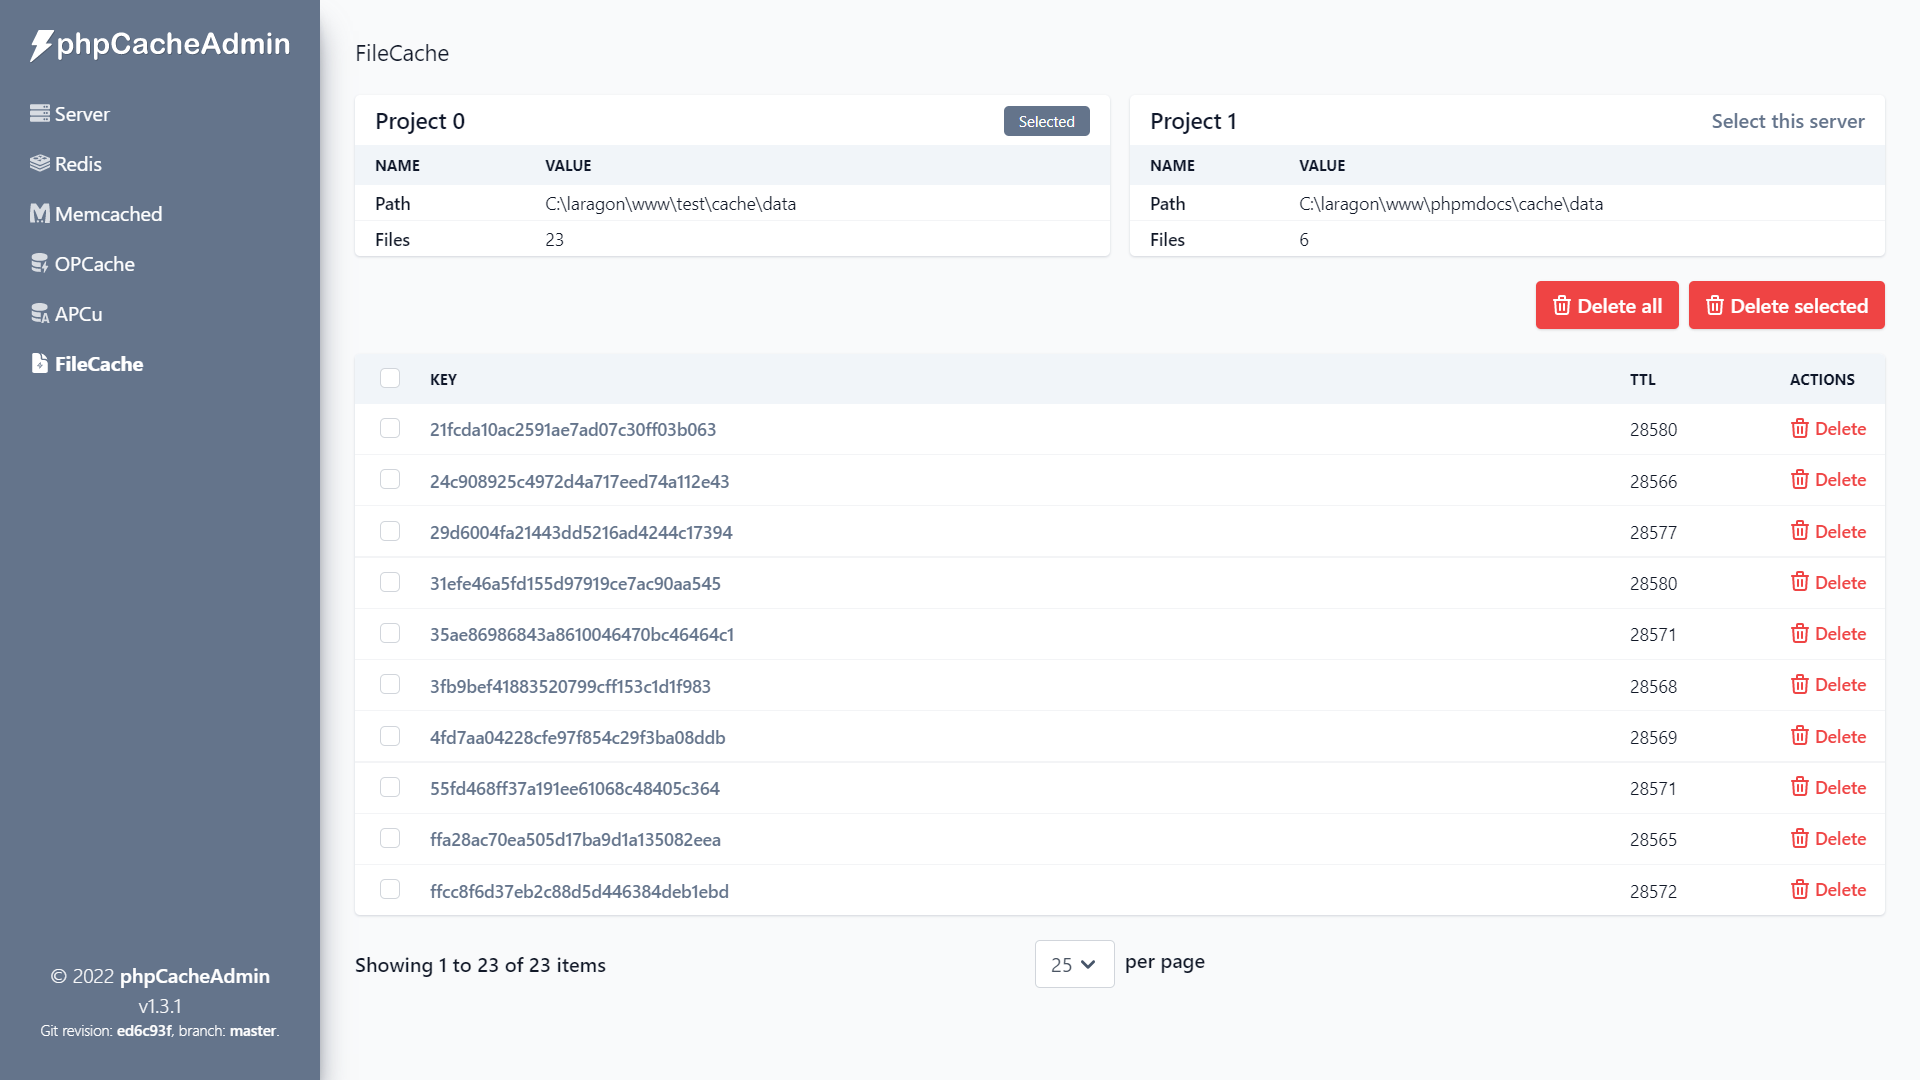
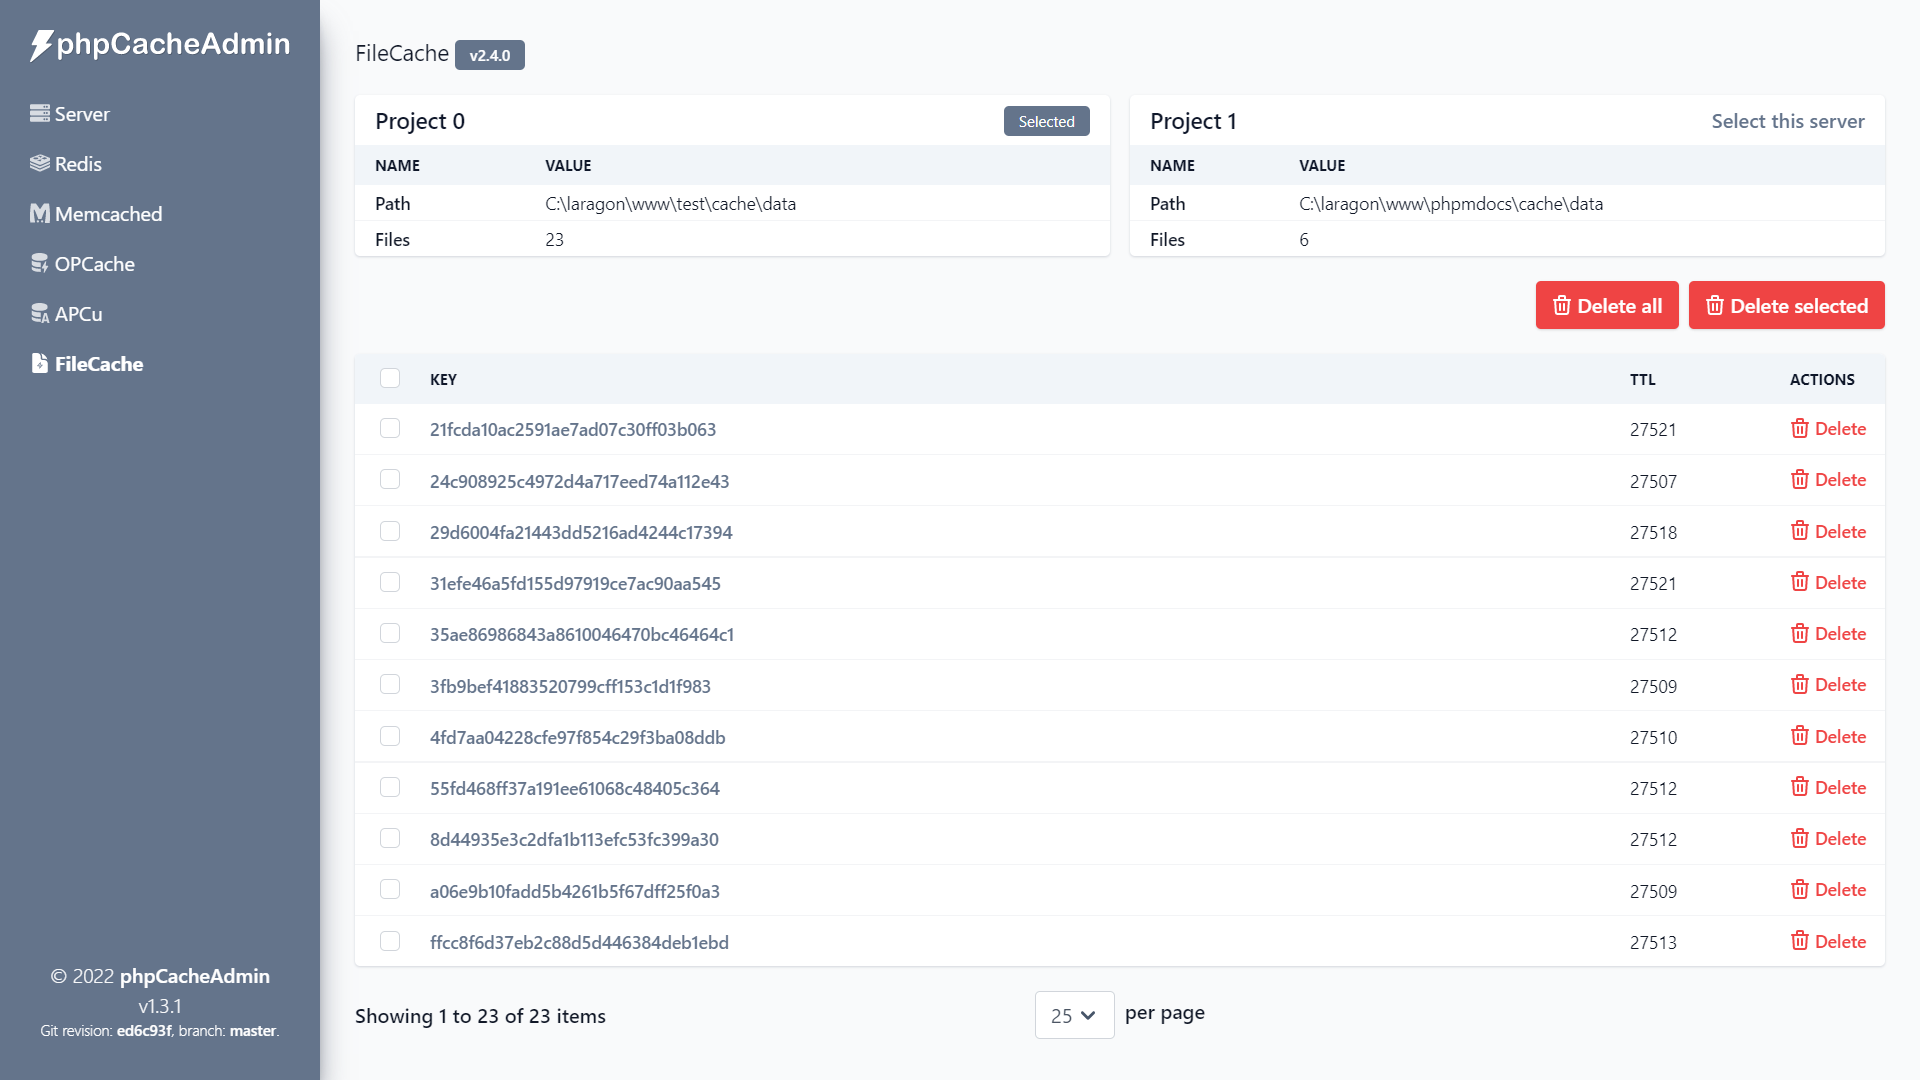
Update

diff --git a/src/FileCacheDashboard.php b/src/FileCacheDashboard.php
@@ -22,6 +22,11 @@ use RobiNN\Pca\Template;
 class FileCacheDashboard implements DashboardInterface {
     use FileCacheTrait;
 
+    /**
+     * @const string FileCache dashbord version.
+     */
+    public const VERSION = '1.0.0';
+
     private Template $template;
 
     private int $current_project = 0;
@@ -145,9 +150,10 @@ class FileCacheDashboard implements DashboardInterface {
         }
 
         return $this->template->render('partials/info', [
-            'panels_toggler' => false,
-            'title'          => 'FileCache',
-            'info'           => $this->info(),
+            'panels_toggler'    => false,
+            'title'             => 'FileCache',
+            'extension_version' => FileCache::VERSION,
+            'info'              => $this->info(),
         ]);
     }
 

diff --git a/src/FileCache.php b/src/FileCache.php
@@ -14,7 +14,17 @@ namespace RobiNN\FileCache;
 
 use JsonException;
 
+/**
+ * This is a modified FileStorage class.
+ *
+ * @link https://github.com/RobiNN1/Cache/blob/master/src/Storages/FileStorage.php
+ */
 class FileCache {
+    /**
+     * @const string FileCache version.
+     */
+    public const VERSION = '2.4.0';
+
     private string $path;
 
     public function __construct(string $path) {

diff --git a/README.md b/README.md
@@ -25,7 +25,7 @@ And install it
 composer require robinn/filecache-dashboard
 ```
 
-In phpCacheAdmin's `config.php` file add class to the `dashboards` add `filecache` config
+In phpCacheAdmin's `config.php` file add class to the `dashboards` and add `filecache` config
 
 ```php
 'dashboards' => [
